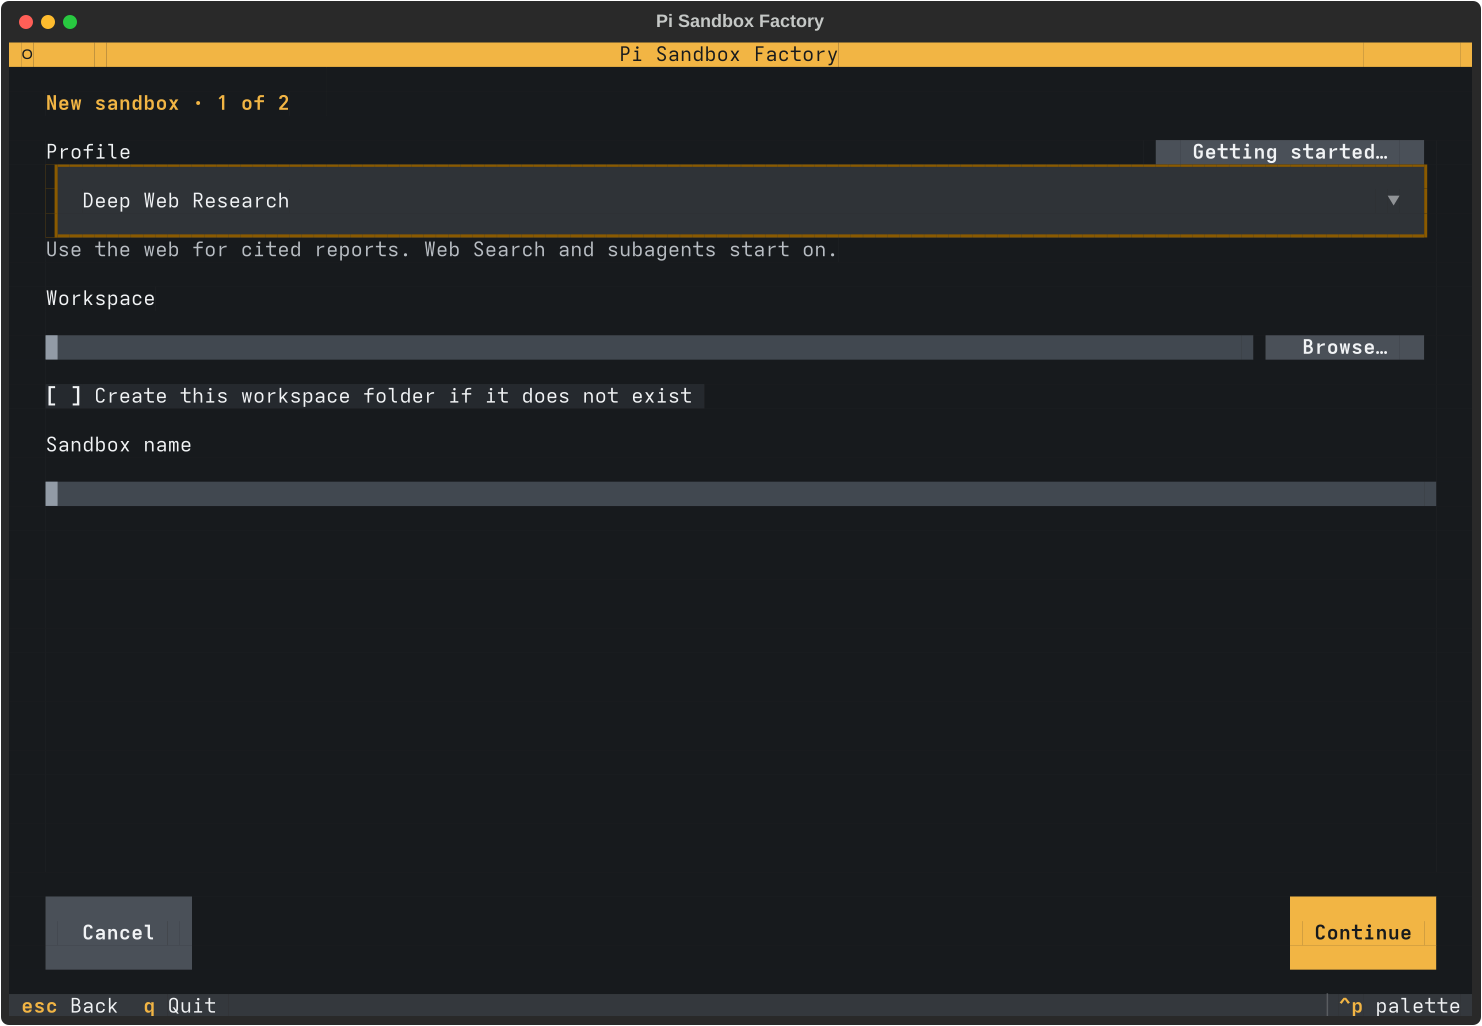
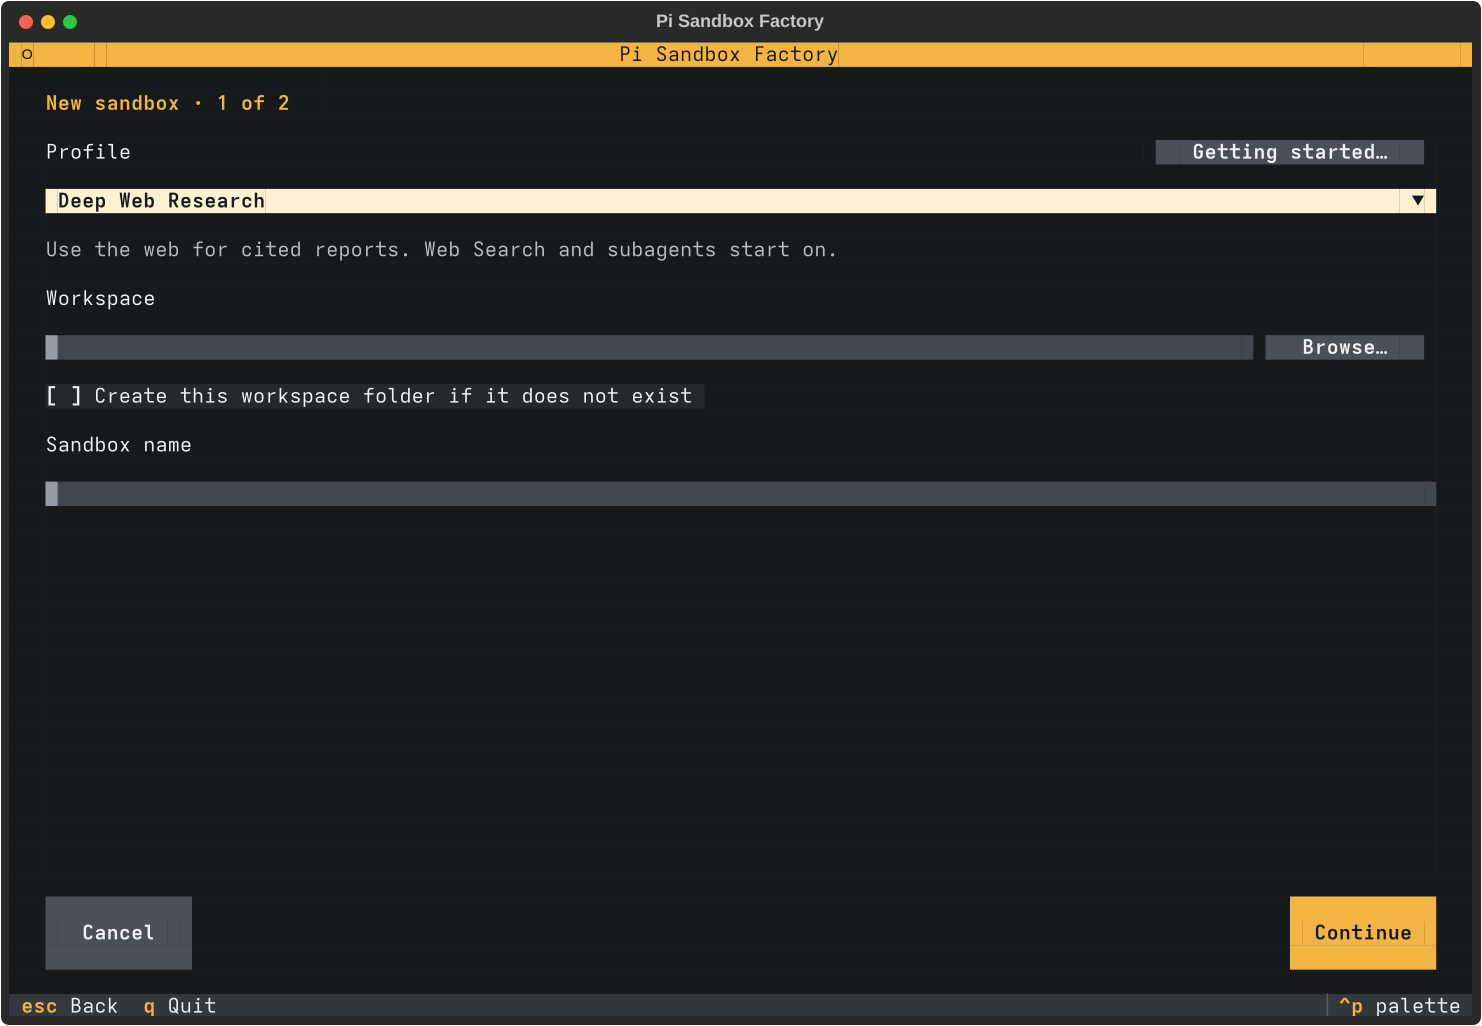
Use one row for closed dropdowns throughout Factory

Changed region(s): [[0.031, 0.1559, 0.9933, 0.2495]]

diff --git a/pi_sandbox_factory/sandbox_tui.py b/pi_sandbox_factory/sandbox_tui.py
@@ -3386,7 +3386,7 @@ class Cockpit(App):
     Screen:nocolor #model-ports-error, Screen:nocolor #network-error, Screen:nocolor .key-dialog Feedback { color: white; text-style: bold reverse; }
     ModelsScreen #configuration { margin: 1 0 0 0; }
     ModelsScreen #legacy-provider-key { margin: 0 0 1 2; }
-    .setting > Checkbox, .setting > Select, .setting > TextArea { margin-bottom: 0; }
+    .setting > Checkbox, .setting > TextArea { margin-bottom: 0; }
     .setting > Button, .setting > .buttons { margin: 0; }
     AdvisorChoices .setting > .copy-login { margin: 1 0 0 0; }
     .setting-help { height: auto; color: #b8bdc3; }
@@ -3399,8 +3399,13 @@ class Cockpit(App):
     Input:focus { border: none; border-left: thick $primary; background: #505965; }
     Input.-invalid, Input.-invalid-credential, Input.prompt-invalid:focus { border-left: thick $error; }
     Screen:nocolor Input:focus { background: white; color: black; border-left: thick black; }
-    .setting > Input:last-child, .setting > .path-row:last-child { margin: 1 0 0 0; }
-    Select { margin-bottom: 1; }
+    .setting > Input:last-child, .setting > Select:last-child, .setting > .path-row:last-child { margin: 1 0 0 0; }
+    Select { height: 1; margin: 1 0; }
+    Select > SelectCurrent, Select:focus > SelectCurrent { height: 1; border: none; padding: 0 1; }
+    Select > SelectCurrent > #label { height: 1; text-wrap: nowrap; text-overflow: ellipsis; }
+    Select:focus > SelectCurrent { background: #fff1d2; }
+    Select:focus > SelectCurrent > #label, Select:focus > SelectCurrent > .arrow { color: #17191b; text-style: bold; }
+    Screen:nocolor Select:focus > SelectCurrent { background: white; }
     TextArea { height: 9; margin-bottom: 1; }
     .group-title { text-style: bold; margin-bottom: 1; }
     Checkbox { height: 1; border: none; padding: 0; margin: 0 0 1 0; }
@@ -3456,12 +3461,8 @@ class Cockpit(App):
     .compact-terminal .key-dialog .key-dialog-fields { height: 1fr; max-height: 100%; }
     .compact-terminal .key-dialog.-saved-key-selected,
     .compact-terminal .key-dialog.-saved-key-selected .key-dialog-fields { height: auto; }
-    .compact-terminal .key-dialog #hosted-provider { margin: 0; }
     .compact-terminal CredentialDialog #credential-dialog { height: auto; }
     .compact-terminal CredentialDialog #credential-dialog-fields { height: auto; max-height: 55vh; }
-    CredentialFields Select, CredentialFields Select > SelectCurrent,
-    CredentialFields Select:focus > SelectCurrent { height: 1; border: none; padding: 0; }
-    CredentialFields Select { margin: 1 0; }
     .key-dialog #remember-key { margin: 1 0 0 0; }
     .key-dialog #credential-remember { margin: 1 0; }
     SSHScreen #ssh-hosts { height: 5; }
@@ -3538,8 +3539,7 @@ class Cockpit(App):
     .form.spaced-form-fields .setting > Select:last-child, .form.spaced-form-fields .setting > Input:last-child { margin: 1 0 0 0; }
     .form .spaced-form-fields Button, .form.spaced-form-fields Button,
     CommunicationsForm Button, SkillSelection Button { padding: 0 2; }
-    DocumentSearchDialog #embedding-catalogue SelectOverlay { max-height: 6; offset: 0 -9; }
-    .compact-terminal DocumentSearchDialog #embedding-catalogue SelectOverlay { offset: 0 -7; }
+    DocumentSearchDialog #embedding-catalogue SelectOverlay { max-height: 6; offset: 0 -7; }
     .compact-terminal DocumentSearchDialog #confirm-box { height: auto; max-height: 96%; padding: 0 2; }
     .compact-terminal DocumentSearchDialog #document-search-fields { height: auto; max-height: 78vh; }
     .compact-terminal DocumentSearchDialog.-custom-server #confirm-box { padding: 1 2 0 2; border-title-color: #f2b544; }
@@ -3547,11 +3547,6 @@ class Cockpit(App):
     .compact-terminal DocumentSearchDialog .dialog-actions { margin: 0; }
     .compact-terminal DocumentSearchDialog.-field-error #document-search-fields { max-height: 74vh; }
     .compact-terminal DocumentSearchDialog.-field-error .dialog-actions { margin: 1 0 0 0; }
-    .compact-terminal .spaced-form-fields .setting > Select,
-    .compact-terminal .spaced-form-fields .setting > Select > SelectCurrent { height: 1; border: none; padding: 0; }
-    DocumentSearchDialog Select:focus > SelectCurrent { background: #fff1d2; }
-    DocumentSearchDialog Select:focus > SelectCurrent > #label,
-    DocumentSearchDialog Select:focus > SelectCurrent > .arrow { color: #17191b; text-style: bold; }
     DocumentSearchDialog Feedback.error { color: #ff9184; text-style: bold; }
     DocumentSearchDialog:nocolor Feedback.error { color: white; text-style: bold reverse; }
     #application-update-row { height: auto; }

diff --git a/tests/test_tui_layout.py b/tests/test_tui_layout.py
@@ -16,7 +16,7 @@ from pi_sandbox_factory.sandbox_tui import (
 from pi_sandbox_factory.folders_ui import FolderEditor
 from pi_sandbox_factory.tui_widgets import Checkbox
 from test_tui import FakeService
-from tui_geometry import check_checkbox_alignment
+from tui_geometry import check_checkbox_alignment, check_dropdown_layout
 
 
 class TUILayoutTests(unittest.TestCase):
@@ -88,6 +88,34 @@ class TUILayoutTests(unittest.TestCase):
                                      app.screen.query_one('.wizard-actions').region.y)
                 await pilot.press('escape')
                 await pilot.press('q')
+
+    async def test_profile_and_provider_dropdowns_open_from_a_single_row(self):
+        from pi_sandbox_factory.models_ui import ProviderDialog
+        for size in ((80, 24), (120, 40), (220, 50)):
+            app = self.app()
+            async with app.run_test(size=size) as pilot:
+                await self.ready(app, pilot)
+                for form, selector in ((NewSandbox(), '#profile'), (ProviderDialog(), '#hosted-provider')):
+                    await app.push_screen(form)
+                    await pilot.pause()
+                    field = form.query_one(selector, Select)
+                    before = field.value
+                    check_dropdown_layout(form)
+                    field.focus()
+                    await pilot.pause()
+                    check_dropdown_layout(form)
+                    await pilot.press('enter')
+                    await pilot.pause()
+                    overlay = field.query_one('SelectOverlay')
+                    self.assertTrue(field.expanded)
+                    self.assertGreater(overlay.content_region.height, 1)
+                    self.assertIs(form.get_widget_at(overlay.content_region.x, overlay.content_region.y)[0], overlay)
+                    await pilot.press('down', 'enter')
+                    await pilot.pause()
+                    self.assertFalse(field.expanded)
+                    self.assertNotEqual(field.value, before)
+                    check_dropdown_layout(form)
+                    await app.pop_screen()
 
     async def test_review_uses_terminal_width_with_padded_actions(self):
         for size in ((80, 24), (120, 40), (220, 50)):
@@ -359,7 +387,7 @@ class TUILayoutTests(unittest.TestCase):
                         self.assertEqual(seed_label.region.y - env_file.region.bottom, 1)
                     else:
                         self.assertEqual(group.query_one('.setting-help').region.y - field.region.bottom, 1)
-                        self.assertEqual(field.region.height, 1 if size[1] < 32 else 3)
+                        self.assertEqual(field.region.height, 1)
                     await app.pop_screen()
 
     async def test_agent_tools_summary_tracks_visible_controls(self):
@@ -778,7 +806,7 @@ class TUILayoutTests(unittest.TestCase):
                 await pilot.pause()
                 labels = list(app.screen.query(Label))
                 profile = app.screen.query_one('#profile')
-                self.assertEqual(profile.region.y, labels[1].region.bottom)
+                self.assertEqual(profile.region.y, labels[1].region.bottom + 1)
                 workspace = app.screen.query_one('#workspace')
                 label = next(x for x in labels if str(x.render()) == 'Workspace')
                 self.assertEqual(workspace.region.y, label.region.bottom + 1)
@@ -787,7 +815,7 @@ class TUILayoutTests(unittest.TestCase):
                 await app.pop_screen()
                 await app.push_screen(CreateFromSandbox([self.record]))
                 await pilot.pause()
-                self.assertEqual(app.screen.query_one('#copy-source').region.height, 3)
+                self.assertEqual(app.screen.query_one('#copy-source').region.height, 1)
                 await app.pop_screen()
                 await app.push_screen(ProviderDialog())
                 feedback = app.screen.query_one('#hosted-error', Static)

diff --git a/tests/render_tui.py b/tests/render_tui.py
@@ -19,7 +19,7 @@ from unittest.mock import patch
 root = Path(__file__).resolve().parents[1]
 sys.path[:0] = [str(root), str(root / 'tests')]
 from test_tui import FakeService
-from tui_geometry import check_checkbox_alignment, check_input_layout
+from tui_geometry import check_checkbox_alignment, check_dropdown_layout, check_input_layout
 from test_hosted_models_ui import ModelService
 from pi_sandbox_factory import sandbox, registry, host_platform
 from pi_sandbox_factory.creation import Creation
@@ -106,6 +106,7 @@ async def capture(size):
                     p = out / f'{name}-{size[0]}x{size[1]}.svg'
                     p.write_text(app.export_screenshot())
                     check_checkbox_alignment(app.screen)
+                    check_dropdown_layout(app.screen)
                     coverage.append(dict(file=p.name, screen=type(app.screen).__name__, size=size,
                                          inputs=check_input_layout(app.screen)))
                     print(p.name, flush=True)

diff --git a/tests/tui_geometry.py b/tests/tui_geometry.py
@@ -1,6 +1,16 @@
 """Layout checks for the controls in rendered Factory screens."""
 from textual.containers import Horizontal
-from textual.widgets import Button, Input, Label
+from textual.widgets import Button, Input, Label, Select
+
+
+def check_dropdown_layout(screen):
+    for field in screen.query(Select):
+        if not field.region.width or not all(widget.display and widget.visible for widget in (field, *field.ancestors)):
+            continue
+        face = field.query_one('SelectCurrent')
+        label = face.query_one('#label')
+        if (field.region.height, face.content_region.height, label.region.height) != (1, 1, 1):
+            raise AssertionError(f'{type(screen).__name__} #{field.id} should display its selection in one row')
 
 
 def check_checkbox_alignment(screen):

diff --git a/AGENTS.md b/AGENTS.md
@@ -136,7 +136,8 @@ Do not solve VM mount failures with recursive ownership changes or wider host mo
   doubled gaps using rendered positions. Check the whole ordinary form,
   from its heading through its buttons, at 80×24, 120×40 and 220×50.
   Long forms and errors can scroll inside the dialog while actions stay visible.
-- Every single-line text input uses one terminal row at every terminal size.
+- Single-line text inputs and closed dropdowns use one terminal row at every
+  terminal size, including when focused. Opening a dropdown shows its option list.
   Leave one blank row between its label and the field. Keep adjacent Browse,
   Generate or other field buttons on the same row and at the same height.
   Check that the text stays visible on focus and after validation errors.
